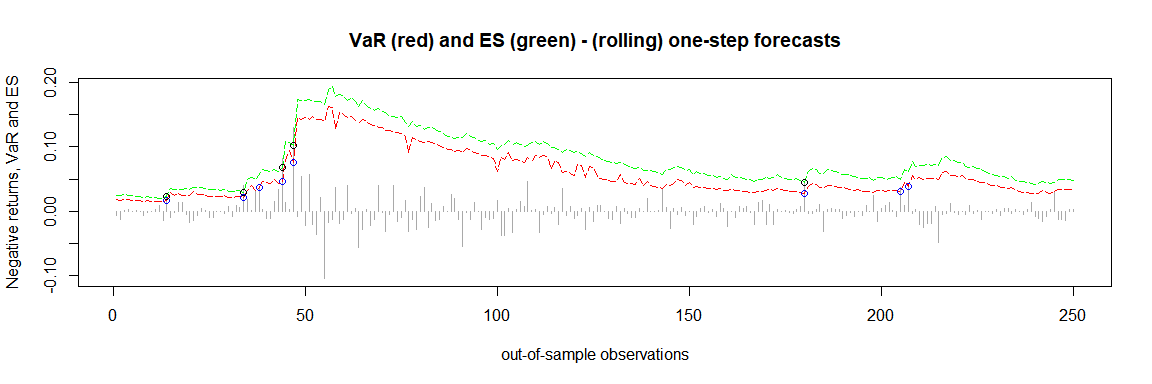
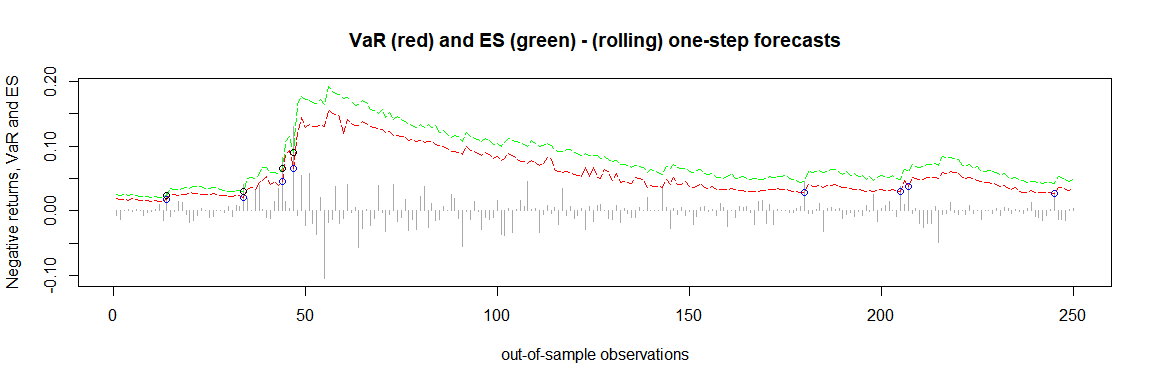
Readme angepasst

diff --git a/README.md b/README.md
@@ -68,9 +68,9 @@ plot(results3)
 <img src="man/figures/README-unnamed-chunk-4-1.png" width="100%" />
 
 ``` r
-### Example 4 - volatility weighted historical simulation 
+### Example 4 - filtered historical simulation 
 results4 <- rollcast(x = returns, p = 0.975, method = 'fhs', nout = 250,
-                     nwin = 250)
+                     nwin = 250, arma = TRUE, order = c(0, 0, 1))
 plot(results4)
 ```
 
